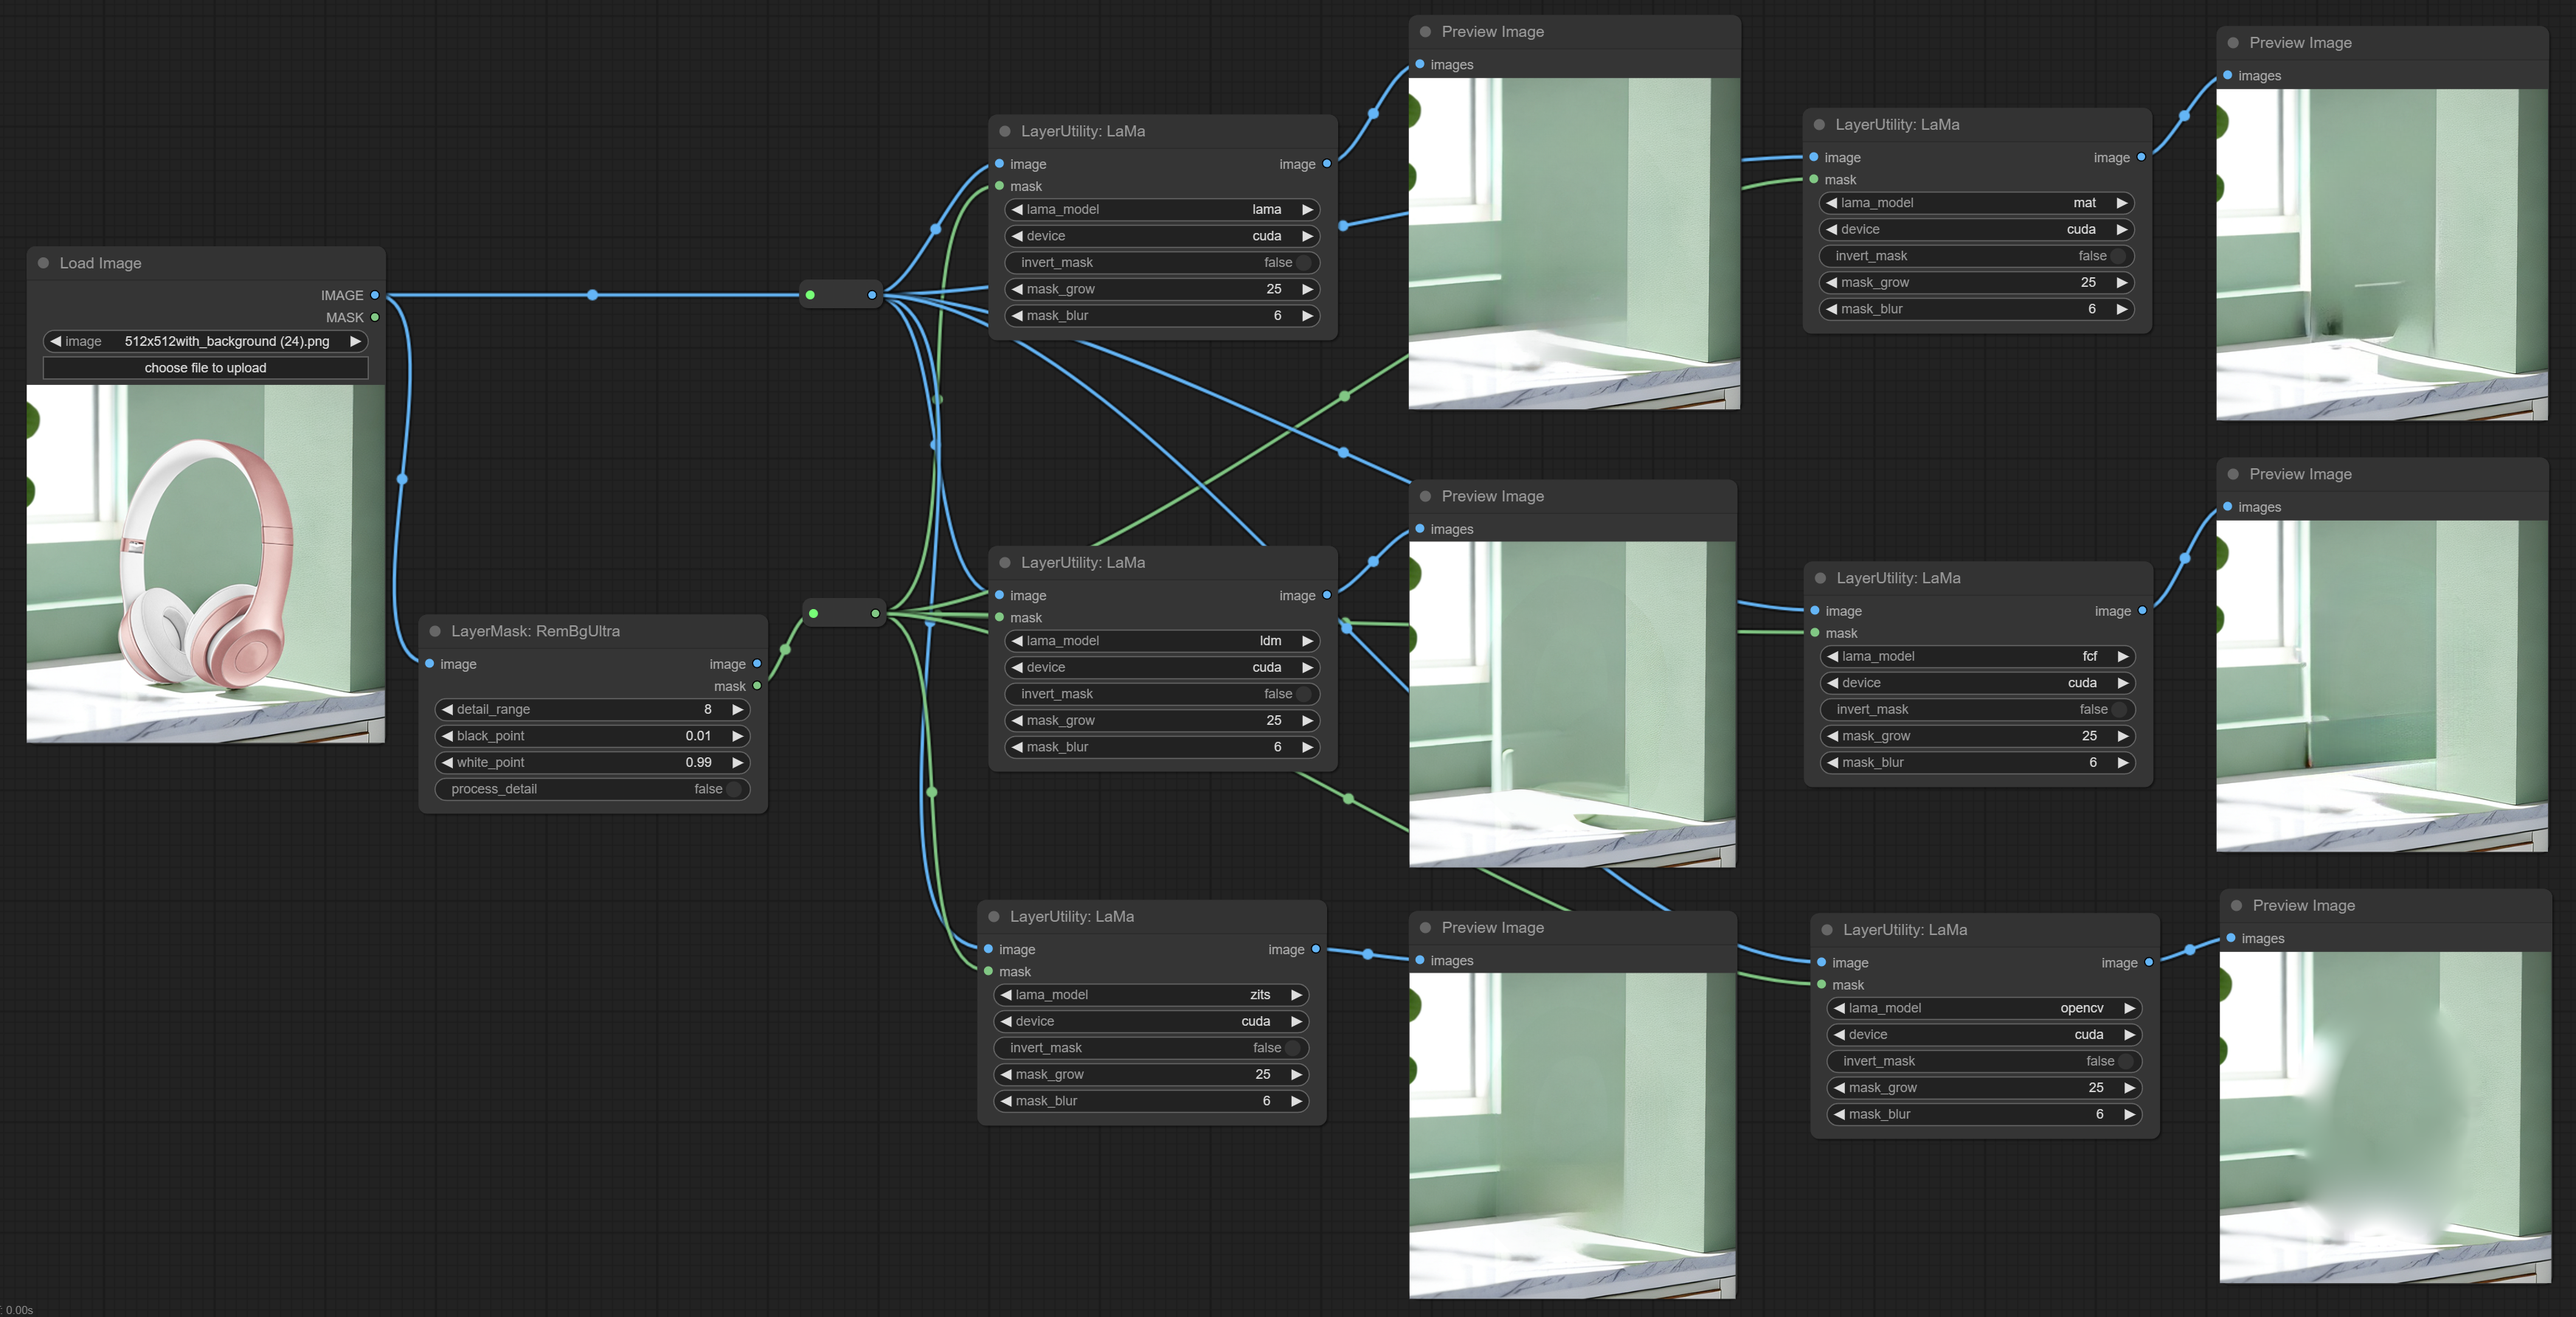
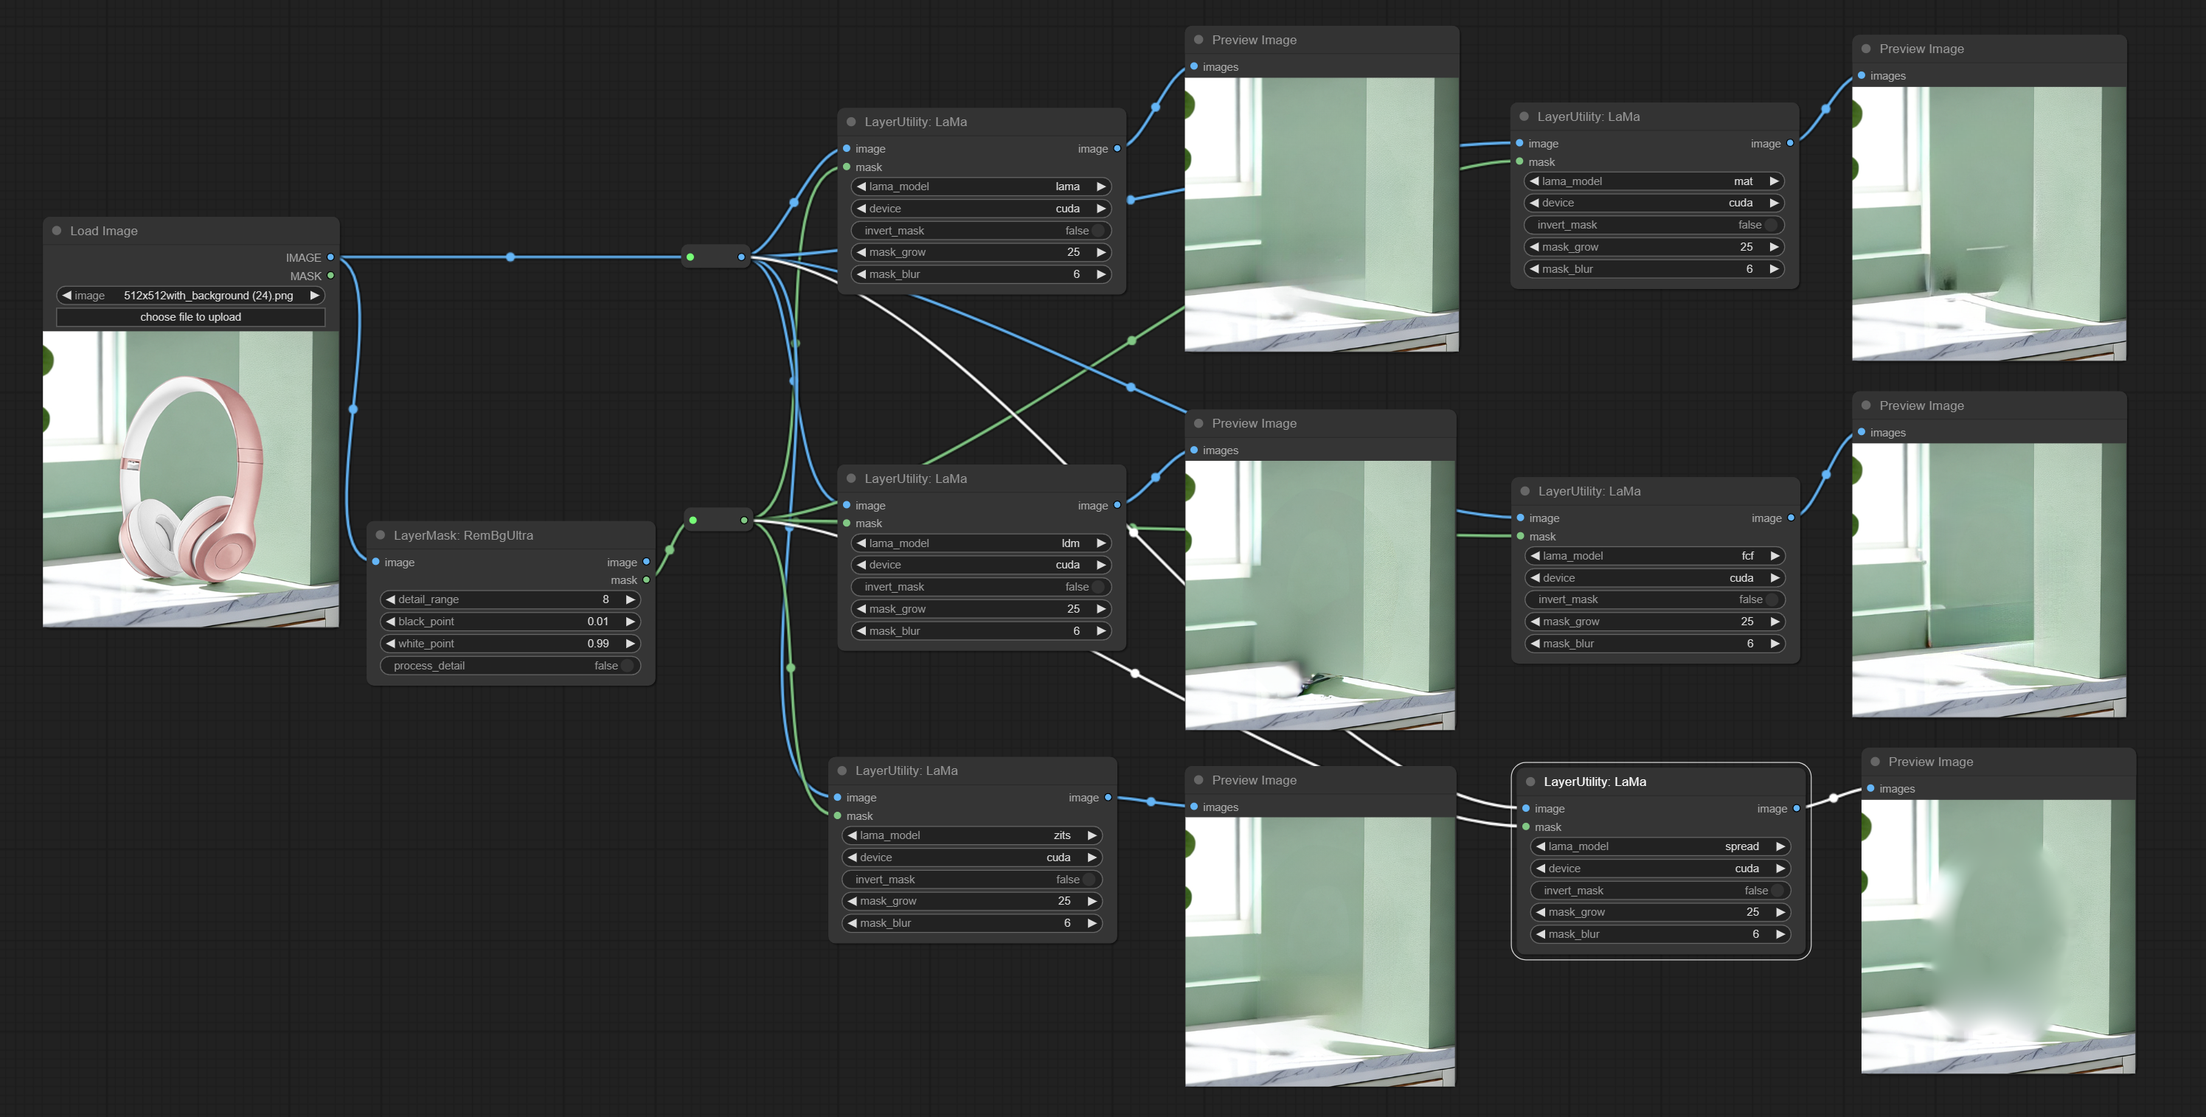
fix a method of LaMa node

Changed region(s): [[0.0, 0.0, 0.995, 0.9927], [0.0311, 0.1861, 0.0622, 0.2172], [0.0, 0.9927, 0.0311, 1.0]]

diff --git a/py/lama.py b/py/lama.py
@@ -14,7 +14,7 @@ class LaMa:
 
     @classmethod
     def INPUT_TYPES(self):
-        model_list = ['lama', 'ldm', 'zits', 'mat', 'fcf', 'manga', 'opencv']
+        model_list = ['lama', 'ldm', 'zits', 'mat', 'fcf', 'manga', 'spread']
         device_list = ['cuda', 'cpu']
         return {
             "required": {
@@ -67,7 +67,7 @@ class LaMa:
             if mask_grow or mask_blur:
                 _mask = tensor2pil(expand_mask(image2mask(_mask), mask_grow, mask_blur))
 
-            if lama_model == 'opencv':
+            if lama_model == 'spread':
                 ret_image = pixel_spread(tensor2pil(_image).convert('RGB'), ImageChops.invert(_mask.convert('RGB')))
             else:
                 temp_dir = os.path.join(folder_paths.get_temp_directory(), generate_random_name('_lama_', '_temp', 16))

diff --git a/README.MD b/README.MD
@@ -685,7 +685,7 @@ If the folder set in ini is invalid, the font folder that comes with the plugin 
 ### <a id="table1">LaMa</a>
 ![image](image/lama_example.png)
 Erase objects from the image based on the mask. this node is repackage of [IOPaint](https://www.iopaint.com), powered by state-of-the-art AI models.    
-It is have [LaMa](https://github.com/advimman/lama), [LDM](https://github.com/CompVis/latent-diffusion), [ZITS](https://github.com/DQiaole/ZITS_inpainting),[MAT](https://github.com/fenglinglwb/MAT),  [FcF](https://github.com/SHI-Labs/FcF-Inpainting), [Manga](https://github.com/msxie92/MangaInpainting) models and the OpenCV method to erase. Please refer to the original link for the introduction of each model.    
+It is have [LaMa](https://github.com/advimman/lama), [LDM](https://github.com/CompVis/latent-diffusion), [ZITS](https://github.com/DQiaole/ZITS_inpainting),[MAT](https://github.com/fenglinglwb/MAT),  [FcF](https://github.com/SHI-Labs/FcF-Inpainting), [Manga](https://github.com/msxie92/MangaInpainting) models and the SPREAD method to erase. Please refer to the original link for the introduction of each model.    
 Please download the model files from [lama models(Baidu Netdisk)](https://pan.baidu.com/s/1LllR9TJHP1G9uEwWT3Mvkg?pwd=tvzv) or [lama models(Google Drive)](https://drive.google.com/drive/folders/1Aq0a4sybb3SRxi7j1e1_ZbBRjaWDdP9e?usp=sharing) to ```ComfyUI/models/lama``` folder.    
 
 Node optons:

diff --git a/README_CN.MD b/README_CN.MD
@@ -677,7 +677,7 @@ GradientImage的V2升级版。
 ### <a id="table1">LaMa</a>
 ![image](image/lama_example.png)
 根据图像遮罩擦除物体。本节点是对[IOPaint](https://www.iopaint.com)的封装，由 SOTA AI 模型提供支持。  
-提供[LaMa](https://github.com/advimman/lama), [LDM](https://github.com/CompVis/latent-diffusion), [ZITS](https://github.com/DQiaole/ZITS_inpainting),[MAT](https://github.com/fenglinglwb/MAT),  [FcF](https://github.com/SHI-Labs/FcF-Inpainting), [Manga](https://github.com/msxie92/MangaInpainting) 模型以及 OpenCV 擦除方法。请查看链接了解各个模型的介绍。  
+提供[LaMa](https://github.com/advimman/lama), [LDM](https://github.com/CompVis/latent-diffusion), [ZITS](https://github.com/DQiaole/ZITS_inpainting),[MAT](https://github.com/fenglinglwb/MAT),  [FcF](https://github.com/SHI-Labs/FcF-Inpainting), [Manga](https://github.com/msxie92/MangaInpainting) 模型以及 SPREAD 擦除方法。请查看链接了解各个模型的介绍。  
 请下载模型文件 [lama models(百度网盘)](https://pan.baidu.com/s/1LllR9TJHP1G9uEwWT3Mvkg?pwd=tvzv) 或者 [lama models(Google Drive)](https://drive.google.com/drive/folders/1Aq0a4sybb3SRxi7j1e1_ZbBRjaWDdP9e?usp=sharing), 将文件放到```ComfyUI/models/lama```
 
 节点选项说明:
